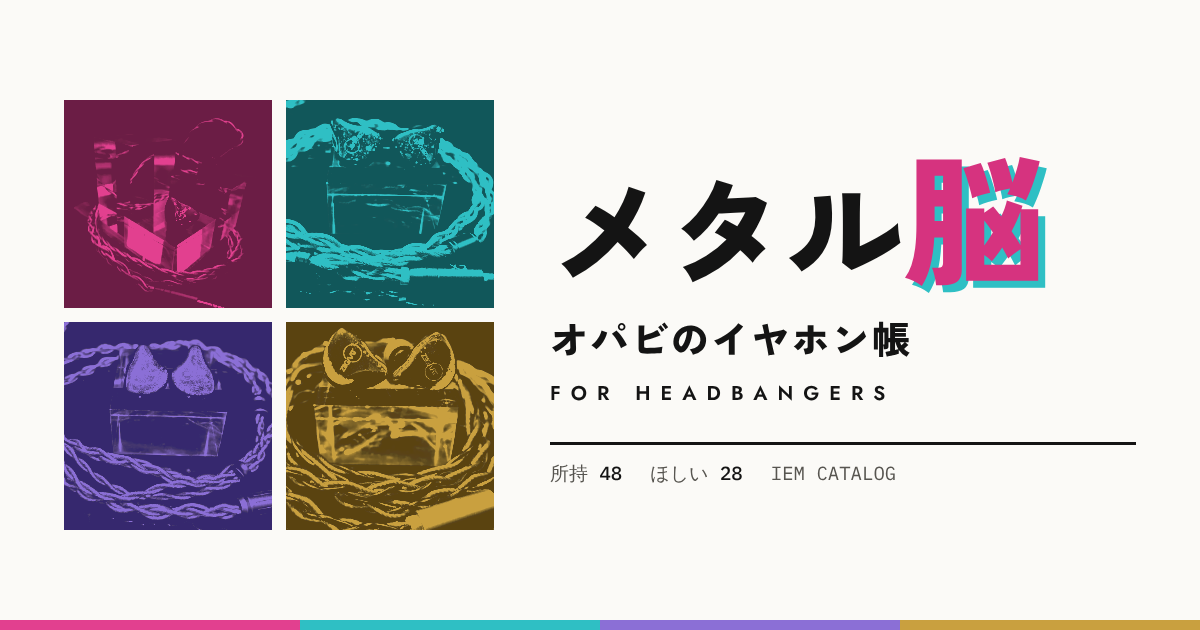
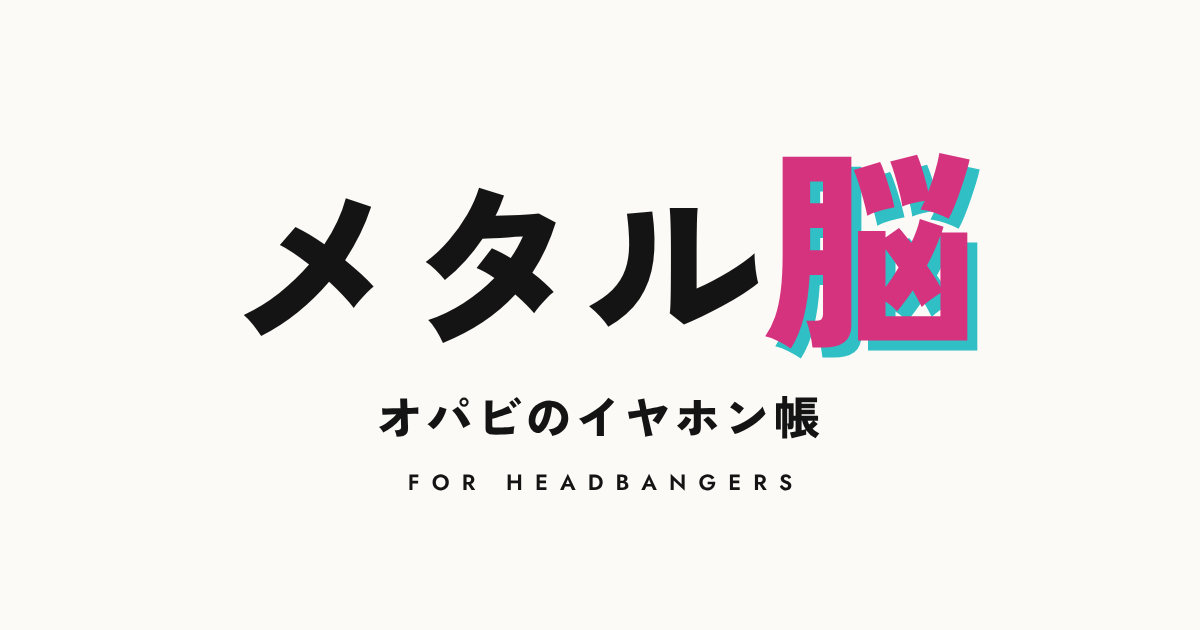
Simplify OGP image to three centered lines
Claude-Session: https://claude.ai/code/session_01MYgqpeVncj9Z7P1gM58KEr

diff --git a/preview/tools/ogp.html b/preview/tools/ogp.html
@@ -1,36 +1,15 @@
-<!-- OGP画像（1200×630）の元データ。ブラウザで 1200×630 の表示サイズにして撮影し、preview/ogp.png に保存する。機種数が変わったら .meta の数字を直す -->
+<!-- OGP画像（1200×630）の元データ。ブラウザで 1200×630 の表示サイズにして撮影し、preview/ogp.png に保存する -->
 <!doctype html><html lang="ja"><head><meta charset="utf-8">
-<link href="https://fonts.googleapis.com/css2?family=Jost:wght@500;600&family=IBM+Plex+Mono:wght@400;500&family=Zen+Kaku+Gothic+New:wght@500;700;900&display=swap" rel="stylesheet">
+<link href="https://fonts.googleapis.com/css2?family=Jost:wght@600&family=Zen+Kaku+Gothic+New:wght@900&display=swap" rel="stylesheet">
 <style>
 *{box-sizing:border-box;margin:0}
-body{width:1200px;height:630px;background:#fbfaf7;color:#141414;font-family:'Zen Kaku Gothic New',sans-serif;overflow:hidden}
-.frame{position:absolute;inset:0;padding:56px 64px;display:grid;grid-template-columns:430px 1fr;gap:56px;align-items:center}
-.panels{display:grid;grid-template-columns:repeat(2,1fr);gap:14px}
-.p{position:relative;isolation:isolate;background:var(--c);aspect-ratio:1}
-.p img{display:block;width:100%;height:100%;object-fit:cover;filter:grayscale(1) brightness(1.9) contrast(1.15);mix-blend-mode:multiply}
-.p::after{content:'';position:absolute;inset:0;background:var(--d);mix-blend-mode:lighten}
-h1{font-weight:900;font-size:116px;line-height:1;letter-spacing:.02em;white-space:nowrap}
-h1 span{color:#d6337f;font-size:1.22em;text-shadow:7px 7px 0 #2fbfc4}
-.sub{margin-top:26px;font-weight:900;font-size:38px;letter-spacing:.06em}
-.tag{margin-top:14px;font-family:Jost,sans-serif;font-weight:600;font-size:20px;letter-spacing:.5em}
-.foot{position:absolute;left:0;right:0;bottom:0;height:10px;display:grid;grid-template-columns:repeat(4,1fr)}
-.foot i:nth-child(1){background:#e2408f}.foot i:nth-child(2){background:#2fbfc4}.foot i:nth-child(3){background:#8b6fd6}.foot i:nth-child(4){background:#c9a03f}
-.meta{margin-top:34px;padding-top:16px;border-top:3px solid #141414;font-family:'IBM Plex Mono',monospace;font-size:19px;color:#575550;display:flex;gap:28px}
-.meta b{color:#141414;font-weight:500}
+body{width:1200px;height:630px;background:#fbfaf7;color:#141414;font-family:'Zen Kaku Gothic New',sans-serif;overflow:hidden;display:grid;place-content:center;text-align:center}
+h1{font-weight:900;font-size:176px;line-height:1;letter-spacing:.02em;white-space:nowrap;transform:translateX(5px)}
+h1 span{color:#d6337f;font-size:1.22em;text-shadow:10px 10px 0 #2fbfc4}
+.sub{margin-top:36px;font-weight:900;font-size:46px;letter-spacing:.08em}
+.tag{margin-top:18px;font-family:Jost,sans-serif;font-weight:600;font-size:22px;letter-spacing:.55em;padding-left:.55em}
 </style></head><body>
-<div class="frame">
- <div class="panels">
-  <div class="p" style="--c:#e2408f;--d:#6b1d45"><img src="../img/doscinco-card-800.webp" style="object-position:62% 45%"></div>
-  <div class="p" style="--c:#2fbfc4;--d:#11575a"><img src="../img/cincotres-card-800.webp" style="object-position:48% 14%"></div>
-  <div class="p" style="--c:#8b6fd6;--d:#36286e"><img src="../img/luna-card-800.webp" style="object-position:47% 10%"></div>
-  <div class="p" style="--c:#c9a03f;--d:#5a4310"><img src="../img/estrella-card-800.webp" style="object-position:50% 8%"></div>
- </div>
- <div>
-  <h1>メタル<span>脳</span></h1>
-  <p class="sub">オパビのイヤホン帳</p>
-  <p class="tag">FOR HEADBANGERS</p>
-  <p class="meta"><span>所持 <b>48</b></span><span>ほしい <b>28</b></span><span>IEM CATALOG</span></p>
- </div>
-</div>
-<div class="foot"><i></i><i></i><i></i><i></i></div>
+<h1>メタル<span>脳</span></h1>
+<p class="sub">オパビのイヤホン帳</p>
+<p class="tag">FOR HEADBANGERS</p>
 </body></html>
